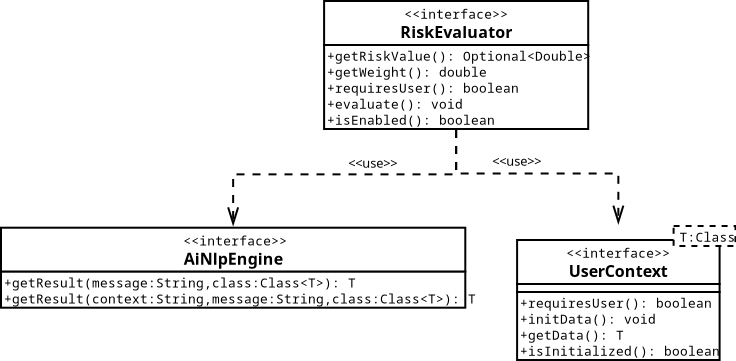
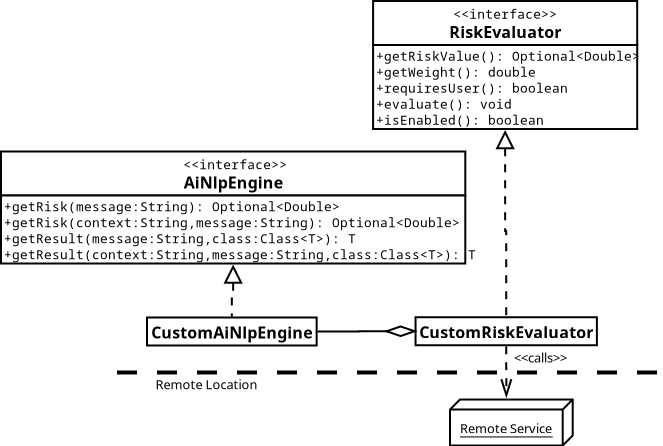
Update AI Design

Changed region(s): [[0.0, 0.0, 1.0, 1.0]]

diff --git a/sections/5-design.tex b/sections/5-design.tex
@@ -609,6 +609,8 @@ For the integration of the NLP systems, the \textit{AiNlpEngine} interface has b
 Every implementation of the engine needs to implement these methods:
 
 \begin{itemize}
+    \item \textit{getRisk(message)} -- retrieve evaluated risk score queried by user \textit{message}. 
+    \item \textit{getRisk(context, message)} -- retrieve evaluated risk score queried by user \textit{message} and a specific \textit{context}. 
     \item \textit{getResult(message, class)} -- retrieve serialized data of type \textit{class} with the user \textit{message} and the default \textit{context}.
     \item \textit{getResult(context, message, class)} -- retrieve serialized data of type \textit{class} with the user \textit{message} and a specific \textit{context}.
 \end{itemize}
@@ -617,7 +619,7 @@ Specific risk evaluators leveraging AI use for communication with the AI service
 
 \begin{figure}[htbp]
   \centering
-  \includegraphics[width=1\textwidth]{img/sections/5-design/ai-engine-remote-new.png}
+  \includegraphics[width=0.92\textwidth]{img/sections/5-design/ai-engine-remote.png}
   \caption{Risk Evaluator and AI NLP Engine Diagram}
   \label{fig:ai-engine-remote-diagram}
 \end{figure}
